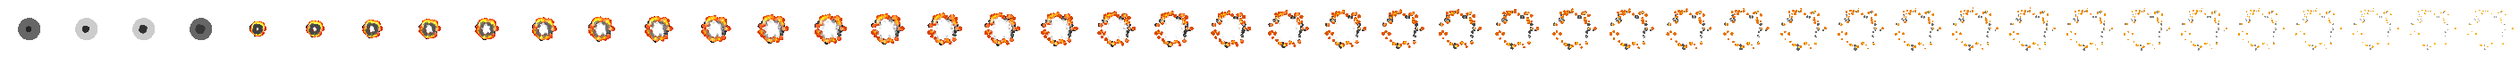
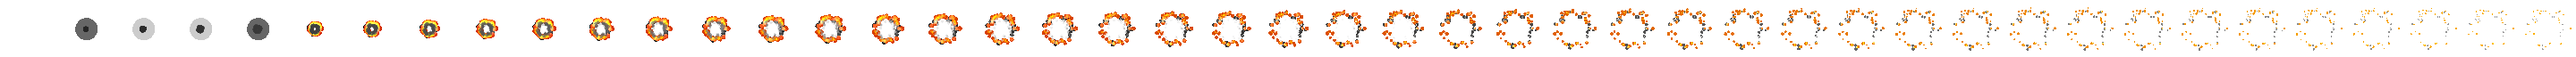
add Explosion effect on mouse click
removed Effect loop, removed effect debug line

Changed region(s): [[0.0, 0.1562, 1.0, 0.875], [0.875, 0.5, 0.9375, 0.5312]]

diff --git a/src/de/mortis/game/graphics/AnimationObject.java b/src/de/mortis/game/graphics/AnimationObject.java
@@ -14,7 +14,7 @@ public abstract class AnimationObject {
     protected Vector2f position;
     protected int size, delay;
 
-    public static boolean play;
+    public static boolean play = true;
 
     public AnimationObject(Sprite sprite, Vector2f position, int size, int delay) {
         this.sprite = sprite;
@@ -36,14 +36,26 @@ public abstract class AnimationObject {
 
     private void animate() {
         if(play) {
-            setAnimation(0, sprite.getSpriteArray(0), 0);
+            if(currentAnimation != 0 || animation.getDelay() == -1) {
+                setAnimation(0, sprite.getSpriteArray(0), 10);
+            }
         } else {
             setAnimation(currentAnimation, sprite.getSpriteArray(currentAnimation), -1);
         }
     }
 
+    public void stop() {
+        if(animation.getCurrentFrame() == animation.getNumFrame() - 1) {
+            play = false;
+        }
+    }
+
     public void update() {
+        animate();
+
         animation.update();
+
+        stop();
     }
 
     public abstract void render(Graphics2D g);
@@ -54,5 +66,53 @@ public abstract class AnimationObject {
 
     public void setDelay(int delay) {
         this.delay = delay;
+    }
+
+    public Sprite getSprite() {
+        return sprite;
+    }
+
+    public void setSprite(Sprite sprite) {
+        this.sprite = sprite;
+    }
+
+    public int getCurrentAnimation() {
+        return currentAnimation;
+    }
+
+    public void setCurrentAnimation(int currentAnimation) {
+        this.currentAnimation = currentAnimation;
+    }
+
+    public Animation getAnimation() {
+        return animation;
+    }
+
+    public void setAnimation(Animation animation) {
+        this.animation = animation;
+    }
+
+    public Vector2f getPosition() {
+        return position;
+    }
+
+    public void setPosition(Vector2f position) {
+        this.position = position;
+    }
+
+    public int getSize() {
+        return size;
+    }
+
+    public void setSize(int size) {
+        this.size = size;
+    }
+
+    public static boolean isPlay() {
+        return play;
+    }
+
+    public static void setPlay(boolean play) {
+        AnimationObject.play = play;
     }
 }

diff --git a/src/de/mortis/game/manager/states/Start.java b/src/de/mortis/game/manager/states/Start.java
@@ -1,6 +1,5 @@
 package de.mortis.game.manager.states;
 
-import de.mortis.game.Main;
 import de.mortis.game.Window;
 import de.mortis.game.entitys.Player;
 import de.mortis.game.graphics.Effect;
@@ -8,7 +7,6 @@ import de.mortis.game.graphics.Sprite;
 import de.mortis.game.handlers.KeyHandler;
 import de.mortis.game.handlers.MouseHandler;
 import de.mortis.game.manager.GameStates;
-import de.mortis.game.tilemap.TileMapManager;
 import de.mortis.game.util.Vector2f;
 
 import java.awt.*;
@@ -20,17 +18,15 @@ public class Start extends GameStates {
 
     public static Effect effect;
 
-    private static TileMapManager tileMapManager;
+    public static Sprite explosion_sprite;
 
     @Override
     public void start() {
         player = new Player(new Sprite("entitys/player.png", 32), new Vector2f((float) (Window.width / 2) - 50 - CamX, (float) (Window.height / 2) - 50 - CamY), 100);
 
-        // TODO: MAKE IT WORK
-        tileMapManager = new TileMapManager("maps/tiledawmap.xml");
+        explosion_sprite = new Sprite("effects/explosion.png", 64);
 
-        effect = new Effect(new Sprite("effects/shatter_effect.png", 96), new Vector2f(100, 100), 230, 8);
-        effect.setDelay(0);
+        effect = new Effect(explosion_sprite, new Vector2f((float) (Window.width / 2) - 115 - CamX, (float) (Window.height / 2) - 115 - CamY), 230, 12);
     }
 
     @Override
@@ -40,14 +36,14 @@ public class Start extends GameStates {
 
     @Override
     public void render(Graphics2D g) {
-        tileMapManager.render(g);
 
+        // player.render(g);
         effect.render(g);
     }
 
     @Override
     public void update() {
-        player.update();
+        //player.update();
         effect.update();
     }
 

diff --git a/src/de/mortis/game/handlers/MouseHandler.java b/src/de/mortis/game/handlers/MouseHandler.java
@@ -1,6 +1,9 @@
 package de.mortis.game.handlers;
 
 import de.mortis.game.GamePanel;
+import de.mortis.game.graphics.AnimationObject;
+import de.mortis.game.manager.states.Start;
+import de.mortis.game.util.Vector2f;
 
 import java.awt.event.MouseEvent;
 import java.awt.event.MouseListener;
@@ -19,7 +22,10 @@ public class MouseHandler implements MouseListener, MouseMotionListener {
 
     @Override
     public void mousePressed(MouseEvent e) {
-
+        if(!AnimationObject.play) {
+            Start.effect.setPosition(new Vector2f(e.getX() - (int) (Start.effect.getSize() / 2), e.getY() - (int) (Start.effect.getSize() / 2)));
+        }
+        AnimationObject.play = true;
     }
 
     @Override

diff --git a/src/de/mortis/game/graphics/Animation.java b/src/de/mortis/game/graphics/Animation.java
@@ -13,6 +13,8 @@ public class Animation {
     public Animation(BufferedImage[] frames) {
         timesPlayed = 0;
         setFrames(frames);
+
+        stop();
     }
 
     public Animation() {
@@ -42,6 +44,10 @@ public class Animation {
             currentFrame = 0;
             timesPlayed++;
         }
+    }
+
+    public void stop() {
+        setDelay(-1);
     }
 
     public BufferedImage[] getFrames() {

diff --git a/src/de/mortis/game/graphics/Effect.java b/src/de/mortis/game/graphics/Effect.java
@@ -17,9 +17,6 @@ public class Effect extends AnimationObject {
     @Override
     public void render(Graphics2D g) {
         g.drawImage(animation.getImage(), (int) (position.x), (int) (position.y), size, size, null);
-
-        g.setColor(Color.RED);
-        g.drawRect((int) position.x, (int) position.y, size, size);
     }
 
 

diff --git a/src/de/mortis/game/GamePanel.java b/src/de/mortis/game/GamePanel.java
@@ -59,7 +59,7 @@ public class GamePanel extends JPanel implements Runnable {
 
     public void render() {
         if(g != null) {
-            g.setColor(new Color(3, 19, 44));
+            g.setColor(new Color(255, 255, 255));
             g.fillRect(0, 0, Window.width, Window.height);
 
             gameStateManager.render(g);

diff --git a/src/de/mortis/game/entitys/Entity.java b/src/de/mortis/game/entitys/Entity.java
@@ -24,8 +24,7 @@ public abstract class Entity {
 
         animation = new Animation();
 
-        // -1 = NO ANIMATION
-        setAnimation(RIGHT, sprite.getSpriteArray(RIGHT), 60);
+        setAnimation(RIGHT, sprite.getSpriteArray(DOWN), 60);
     }
 
     public void setAnimation(int i, BufferedImage[] frames, int delay) {
